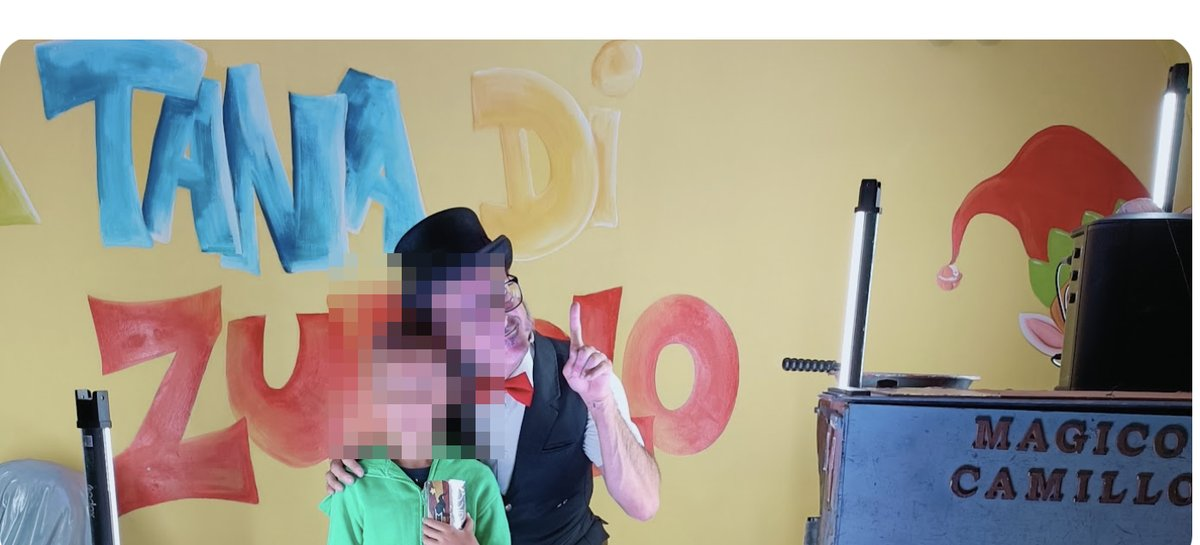
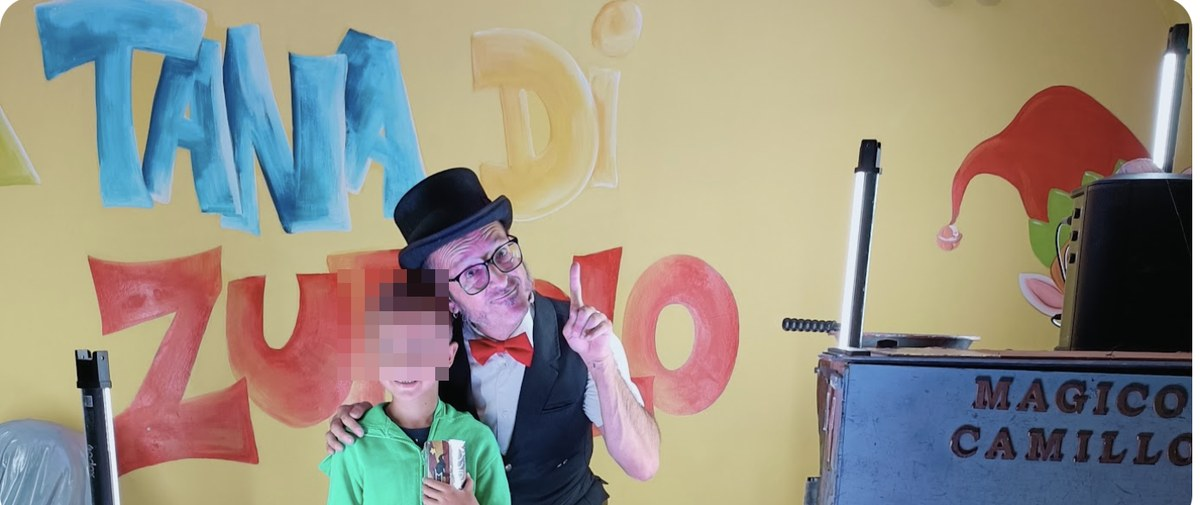
Corregge il pixelamento (solo sui bimbi) e usa le proporzioni originali delle foto recensioni

diff --git a/app/recensioni/page.tsx b/app/recensioni/page.tsx
@@ -92,21 +92,29 @@ const fotoRecensioni = [
     src: "/images/recensioni/recensione-arianna.jpg",
     autore: "Arianna Nicoli",
     alt: "Magico Camillo con un bambino durante uno spettacolo, foto da una recensione Google",
+    width: 1200,
+    height: 469,
   },
   {
     src: "/images/recensioni/recensione-bruno.jpg",
     autore: "Bruno Bottaro",
     alt: "Magico Camillo con una bambina dopo lo spettacolo, foto da una recensione Google",
+    width: 1200,
+    height: 1515,
   },
   {
     src: "/images/recensioni/recensione-ida.jpg",
     autore: "Ida Petruska",
     alt: "Magico Camillo con un bambino alla Tana di Zampillo, foto da una recensione Google",
+    width: 1200,
+    height: 505,
   },
   {
     src: "/images/recensioni/recensione-isabella.jpg",
     autore: "Isabella Calipa",
     alt: "Magico Camillo sul palco durante uno spettacolo, foto da una recensione Google",
+    width: 1200,
+    height: 519,
   },
 ];
 
@@ -289,7 +297,7 @@ export default function RecensioniPage() {
 
           </div>
 
-          <div className="mt-16 grid gap-6 sm:grid-cols-2 lg:grid-cols-4">
+          <div className="mt-16 grid items-start gap-6 sm:grid-cols-2 lg:grid-cols-4">
 
             {fotoRecensioni.map((foto) => (
 
@@ -298,13 +306,14 @@ export default function RecensioniPage() {
                 className="group overflow-hidden rounded-[28px] border border-white/10 bg-black/40"
               >
 
-                <div className="relative aspect-[4/5] w-full overflow-hidden">
+                <div className="w-full overflow-hidden">
                   <Image
                     src={foto.src}
                     alt={foto.alt}
-                    fill
+                    width={foto.width}
+                    height={foto.height}
                     sizes="(min-width: 1024px) 25vw, (min-width: 640px) 50vw, 100vw"
-                    className="object-cover transition duration-500 group-hover:scale-105"
+                    className="h-auto w-full transition duration-500 group-hover:scale-105"
                   />
                 </div>
 
